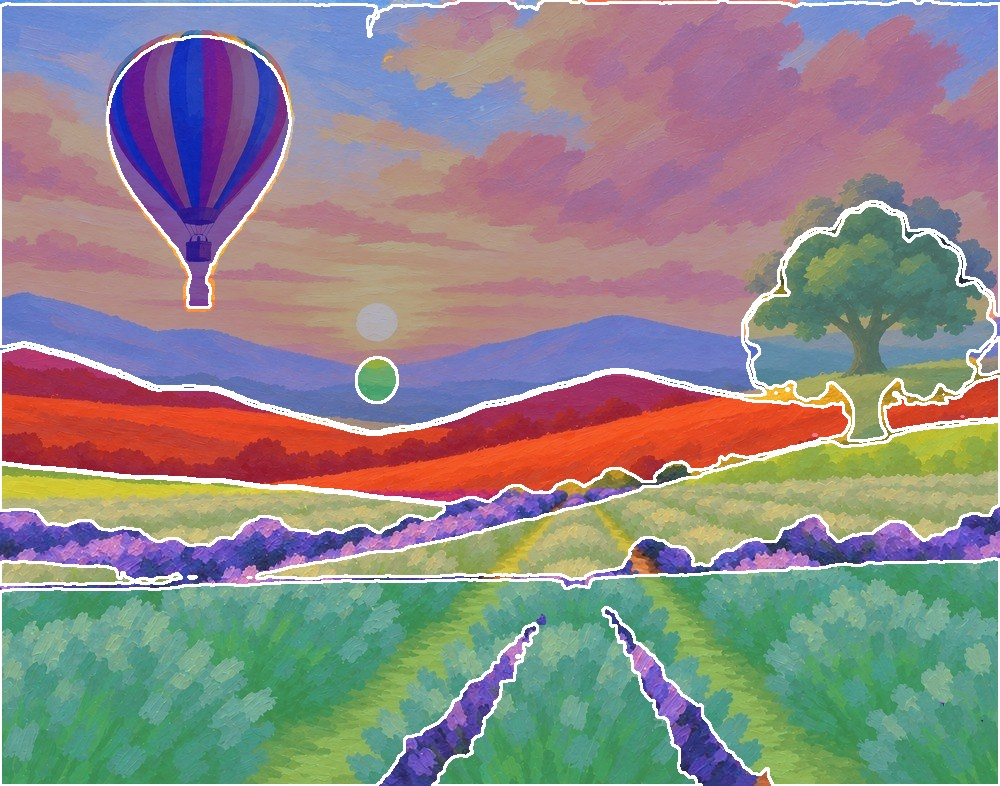
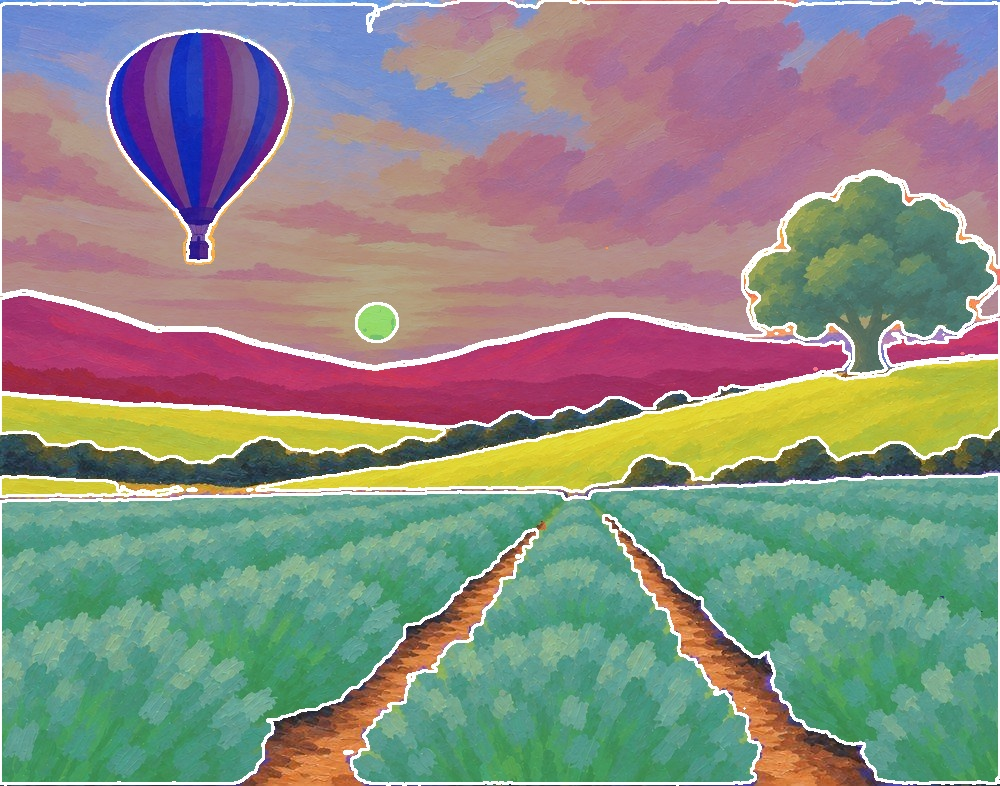
Correct the outline probe: the first outlines were drawn stretched
Claude-Session: https://claude.ai/code/session_017xvRi3b5oo7VFd12D7CGUX

diff --git a/docs/spikes/outline-probe.md b/docs/spikes/outline-probe.md
@@ -1,7 +1,7 @@
 # Probe: outlines from a local model, on finishes already on the site
 
 2026-11-12. A one-hour check before writing `docs/design/pipeline-v2.md`, to see whether real outlines fix what the
-from-finish spike (`from-finish.md`) got wrong. It is a probe, not the spike: no code landed, the fills are crude,
+from-finish spike (`from-finish.md`) got wrong. It is a probe, not the spike: no code landed, no step pictures were built,
 and only two finishes were tried. Issue #62 does it properly.
 
 ## What was run
@@ -17,30 +17,32 @@ and only two finishes were tried. Issue #62 does it properly.
 
 ## What it showed
 
-**Works: things and areas with a clear edge, from a box.**
+**Works: things and areas with a clear edge, from one box each.**
 
 ![Lavender balloon, one colored outline per part](outline-probe-lavender.jpg)
 
-On the lavender balloon every part came back clean from one box each, with the model's own confidence between
-0.96 and 1.0: sky, sun, mountains, gold fields, tree, lavender, balloon. This is the picture where the from-finish
-spike failed, because a box could not tell the sky's gold from the field's gold. With outlines, the back-to-front
-steps from the mountains on are right with no renders:
+On the lavender balloon all 7 parts came back clean from one box each, with the model's own confidence between
+0.96 and 1.0: sky, sun, far mountains, gold fields (with their tree lines), tree, lavender, balloon. This is the
+picture where the from-finish spike failed, because a box could not tell the sky's gold from the field's gold.
 
-![Steps built by laying the parts on in order](outline-probe-lavender-steps.jpg)
-
-Steps 3 to 7 are correct. Steps 1 and 2 show the probe's crude fill, not a problem with the outlines: it filled
-the whole canvas below the sky and smeared color down (the real tool leaves unpainted canvas white, and
-`spike/from_finish.py` already has better fills, `row_paint` and `continue_paint`). The ghost where the balloon and
-tree will go is the hidden-area problem the design handles separately (`pipeline-v2.md`, "Hidden areas").
-
-**Works: a compact subject.** On the chickadee, the bird, all four leaves, and the sun came back clean from one
-box each (confidence 0.89 to 1.0).
+**Works: a compact subject.** On the chickadee, the bird, the sun, and 3 of the 4 leaves came back clean from one
+box each (confidence 0.96 to 1.0). The fourth leaf (lower left of the pair, confidence 0.89) came back in two
+pieces.
 
 ![Chickadee: bird, leaves and sun are clean; branch and trunks are not](outline-probe-chickadee.jpg)
 
-**Does not work: thin or soft parts from point prompts.** The branch (thin, runs across the whole picture) and the
-misty trunks (soft, no real edge) came back as large wrong blobs from clicked points, and a box per limb was no
-better. These need a different method, which the design gives (`kind: thin` and `kind: soft`), and #62 has to test.
+**Does not work: thin or soft parts from point prompts.** The branch (thin, runs across the whole picture) took
+most of the background with it, and the misty trunks (soft, no real edge) came back as a ragged blob. A box per
+limb was no better. These need a different method, and #62 has to find and test it.
+
+**Not tested:** the red sailboat; parts inside parts (the bird's cap); a picture with gray bands around it (what
+the image model returns when the canvas shape differs from its frame); any step pictures built from these
+outlines. No outline was scored against a hand-drawn one; "clean" is by eye.
+
+**A mistake worth knowing about.** The first version of this probe used the decoder's full-size `masks` output and
+every outline came back stretched downward (the sun's outline sat below the sun). That output assumes a square
+picture. The code below uses `low_res_masks` and undoes the padding itself. Anyone starting from other SAM ONNX
+exports should check an outline against a small round thing first.
 
 ## The probe's code
 
@@ -64,14 +66,18 @@ def mask(emb, s, shape, box=None, pos=(), neg=()):  # about 0.1 s per part
     for x, y in neg: pts.append([x * w, y * h]); lab.append(0)
     if box: pts += [[box[0] * w, box[1] * h], [box[2] * w, box[3] * h]]; lab += [2, 3]
     else: pts.append([0, 0]); lab.append(-1)
-    m, iou, _ = dec.run(None, {
+    m, iou, low = dec.run(None, {
         "image_embeddings": emb,
         "point_coords": (np.array(pts, np.float32) * s)[None],
         "point_labels": np.array(lab, np.float32)[None],
         "mask_input": np.zeros((1, 1, 256, 256), np.float32),
         "has_mask_input": np.zeros(1, np.float32),
         "orig_im_size": np.array([h, w], np.float32)})
-    return m[0, 0] > 0, float(iou.ravel()[0])      # the outline, and the model's confidence (0 to 1)
+    # `low` is 256 x 256 over the padded 1024 square: enlarge, cut the padding off, then back to the picture's size.
+    # (The decoder's full-size `masks` output skips the padding step and comes back stretched for non-square pictures.)
+    nh, nw = int(h * s + .5), int(w * s + .5)
+    up = cv2.resize(low[0, 0], (1024, 1024), interpolation=cv2.INTER_LINEAR)[:nh, :nw]
+    return cv2.resize(up, (w, h), interpolation=cv2.INTER_LINEAR) > 0, float(iou.ravel()[0])  # outline, confidence
 ```
 
 The lavender boxes: sky `[0, 0, 1, 0.47]`, mountains `[0, 0.36, 1, 0.54]`, fields `[0, 0.44, 1, 0.64]`, lavender
